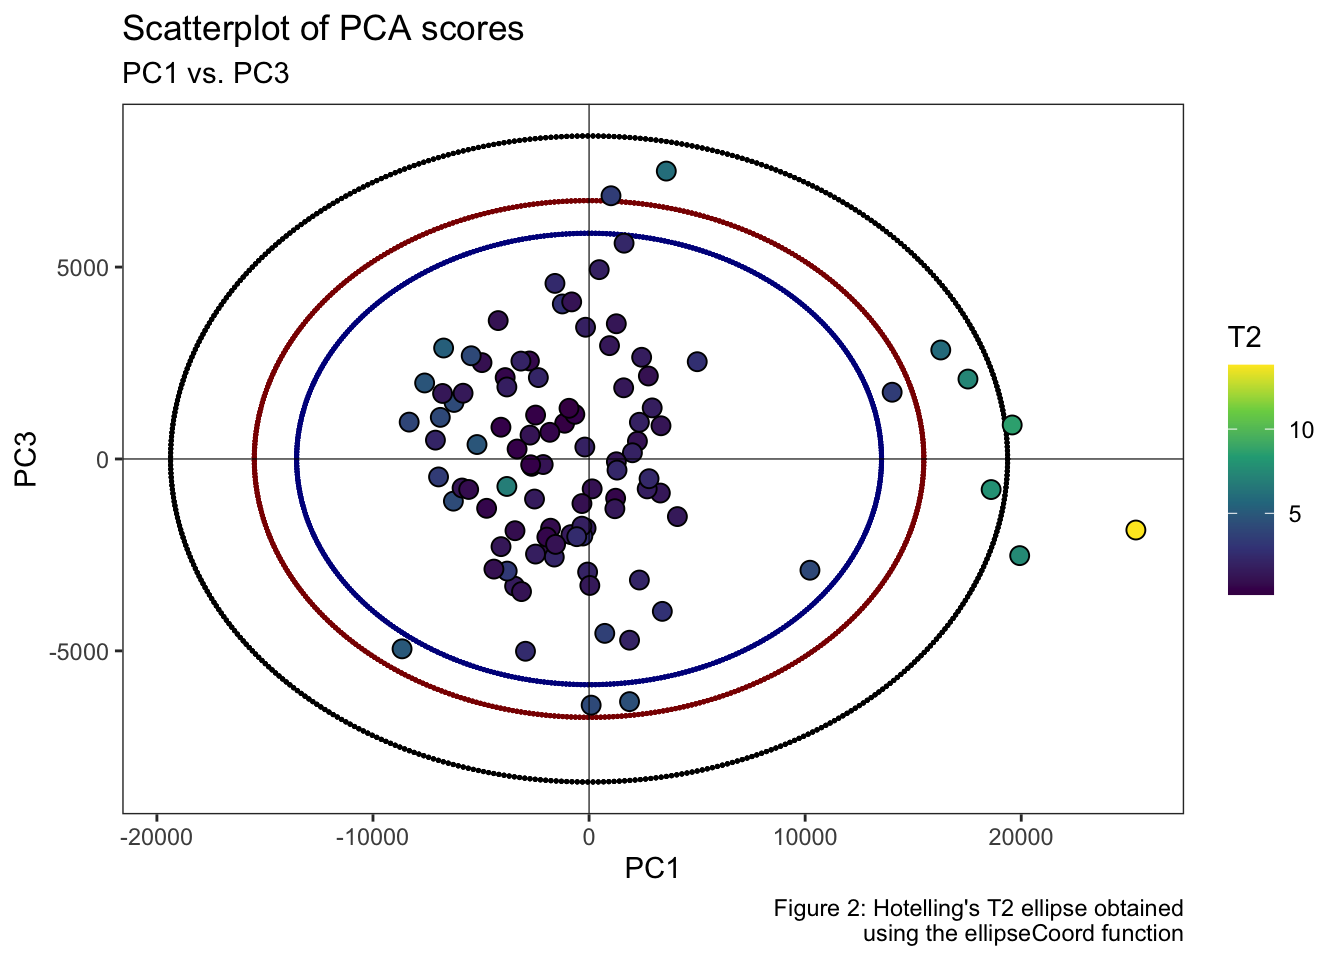
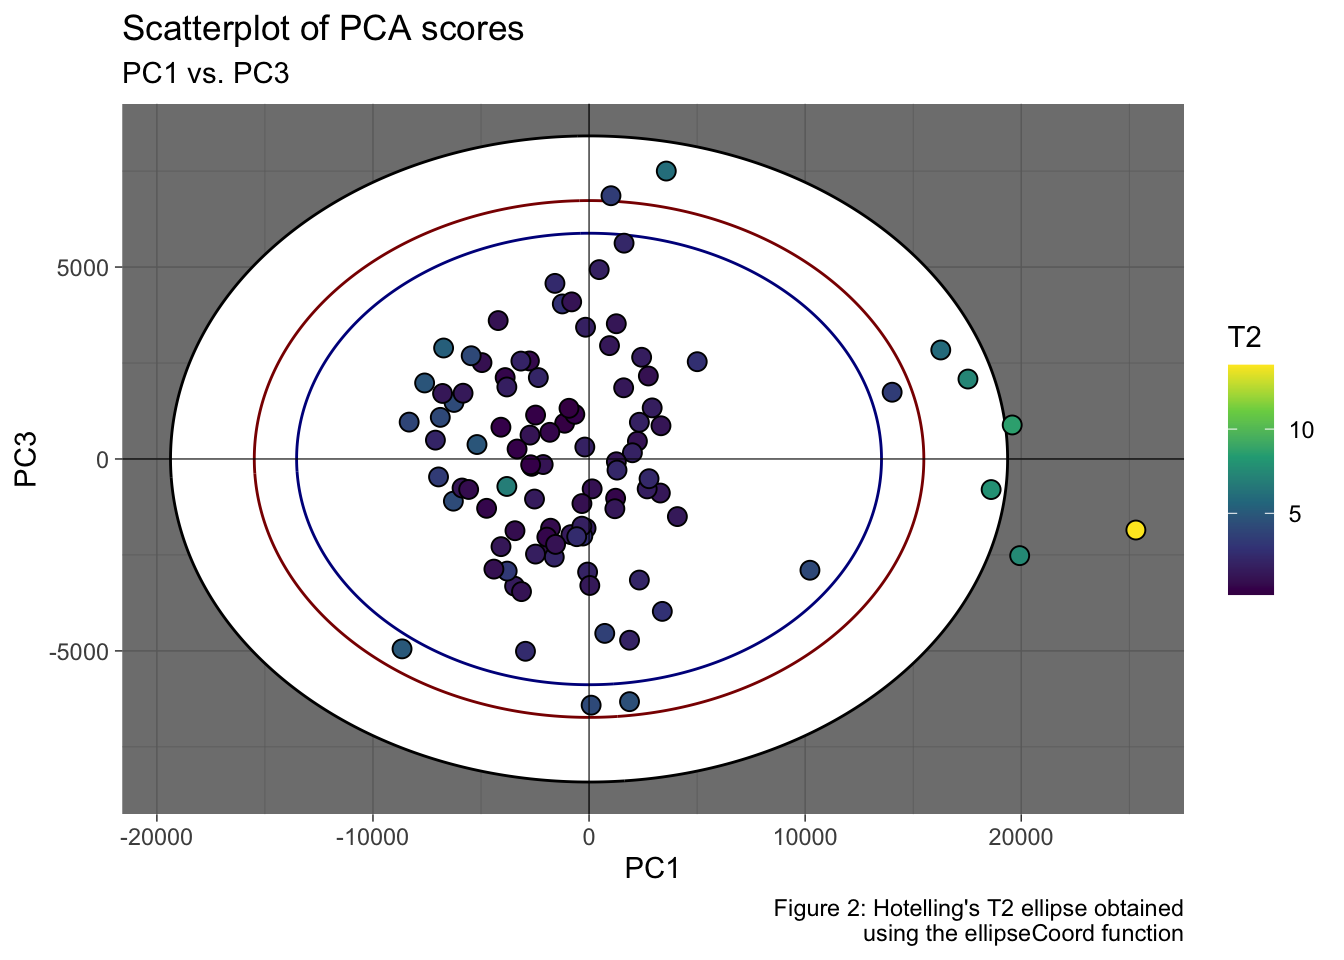
updates

diff --git a/README.md b/README.md
@@ -63,7 +63,8 @@ confidence ellipse:
 **Step 1.** Load the package.
 
 ``` r
-library(HotellingEllipse)
+#library(HotellingEllipse)
+devtools::load_all()
 ```
 
 **Step 2.** Load LIBS dataset.
@@ -165,7 +166,7 @@ coord_2PCs_90 <- ellipseCoord(data = pca_scores, pcx = 1, pcy = 3, conf.limit = 
 str(coord_2PCs_99)
 #> tibble [500 × 2] (S3: tbl_df/tbl/data.frame)
 #>  $ x: num [1:500] 19369 19367 19363 19355 19344 ...
-#>  $ y: num [1:500] -4.70e-13 1.06e+02 2.12e+02 3.18e+02 4.24e+02 ...
+#>  $ y: num [1:500] -5.30e-13 1.06e+02 2.12e+02 3.18e+02 4.24e+02 ...
 ```
 
 **Step 6.** Plot PC1 *vs.* PC2 scatterplot, with the two corresponding
@@ -175,8 +176,8 @@ the 99% and 95% confidence intervals for the Hotelling’s T-squared.
 ``` r
 pca_scores %>%
   ggplot(aes(x = Dim.1, y = Dim.2)) +
-  geom_ellipse(aes(x0 = 0, y0 = 0, a = a1, b = b1, angle = 0), size = .5, linetype = "dotted", fill = "white") +
-  geom_ellipse(aes(x0 = 0, y0 = 0, a = a2, b = b2, angle = 0), size = .5, linetype = "dashed", fill = "white") +
+  geom_ellipse(aes(x0 = 0, y0 = 0, a = a1, b = b1, angle = 0), size = .5, linetype = "solid", fill = "white") +
+  geom_ellipse(aes(x0 = 0, y0 = 0, a = a2, b = b2, angle = 0), size = .5, linetype = "solid", fill = "white") +
   geom_point(aes(fill = T2), shape = 21, size = 3, color = "black") +
   scale_fill_viridis_c(option = "viridis") +
   geom_hline(yintercept = 0, linetype = "solid", color = "black", size = .2) +
@@ -192,21 +193,20 @@ Or in the PC1-PC3 subspace at the confidence intervals set at 99, 95 and
 
 ``` r
 ggplot() +
-  geom_ellipse(data = coord_2PCs_99, aes(x0 = x, y0 = y, a = 1, b = 1, angle = 0), size = .9, color = "black", linetype = "dashed") +
-  geom_ellipse(data = coord_2PCs_95, aes(x0 = x, y0 = y, a = 1, b = 1, angle = 0), size = .9, color = "darkred", linetype = "dotted") +
-  geom_ellipse(data = coord_2PCs_90, aes(x0 = x, y0 = y, a = 1, b = 1, angle = 0), size = .9, color = "darkblue", linetype = "dotted") +
+  geom_polygon(data = coord_2PCs_99, aes(x, y), color = "black", fill = "white") +
+  geom_path(data = coord_2PCs_95, aes(x, y), color = "darkred") +
+  geom_path(data = coord_2PCs_90, aes(x, y), color = "darkblue") +
   geom_point(data = pca_scores, aes(x = Dim.1, y = Dim.3, fill = T2), shape = 21, size = 3, color = "black") +
   scale_fill_viridis_c(option = "viridis") +
   geom_hline(yintercept = 0, linetype = "solid", color = "black", size = .2) +
   geom_vline(xintercept = 0, linetype = "solid", color = "black", size = .2) +
   labs(title = "Scatterplot of PCA scores", subtitle = "PC1 vs. PC3", x = "PC1", y = "PC3", fill = "T2", caption = "Figure 2: Hotelling's T2 ellipse obtained\n using the ellipseCoord function") +
-  theme_bw() +
-  theme(panel.grid = element_blank())
+  theme_dark()
 ```
 
 <img src="man/figures/README-unnamed-chunk-15-1.png" width="90%" height="90%" />
 
-**Note A: Hotelling’s T-squared vs. Observations** The easiest way to
+**Note: Hotelling’s T-squared vs. Observations.** The easiest way to
 analyze and interpret Hotelling’s T-squared for more than two principal
 components, is to plot Hotelling’s T-squared *vs.* Observations, where
 the confidence limits are plotted as a line. Thus, observations below
@@ -245,3 +245,40 @@ tibble(
 ```
 
 <img src="man/figures/README-unnamed-chunk-18-1.png" width="90%" height="90%" />
+
+**Update (development version).** In the `ellipseCoord` function, we’ve
+incorporated the addition of an extra input parameter called `pcz`,
+which is set to `NULL` by default. This addition serves to facilitate
+the visualization of Hotelling’s ellipsoid in three dimensions, thereby
+enriching the functionality and versatility of the function.
+
+``` r
+df <- ellipseCoord(pca_scores, pcx = 1, pcy = 2, pcz = 3)
+```
+
+``` r
+rgl::setupKnitr(autoprint = TRUE)
+rgl::plot3d(
+  x = df$x, 
+  y = df$y, 
+  z = df$z,
+  xlab = "PC1", 
+  ylab = "PC2", 
+  zlab = "PC3",
+  type = "l", 
+  lwd = 0.5,
+  col = "lightblue",
+  alpha = 0.5
+)
+rgl::points3d(
+  x = pca_scores$Dim.1, 
+  y = pca_scores$Dim.2, 
+  z = pca_scores$Dim.3, 
+  col = "darkred",
+  size = 5,
+  add = TRUE
+)
+rgl::view3d(zoom = .8)
+```
+
+<img src="man/figures/README-unnamed-chunk-20-1-rgl.png" width="90%" height="90%" />
